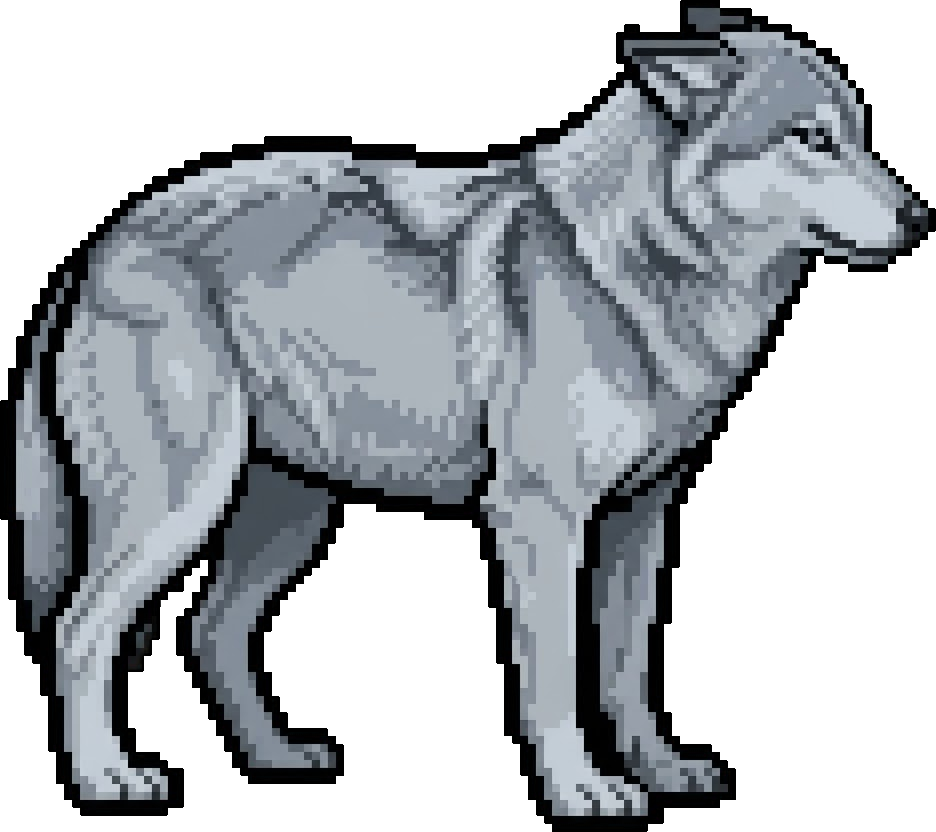
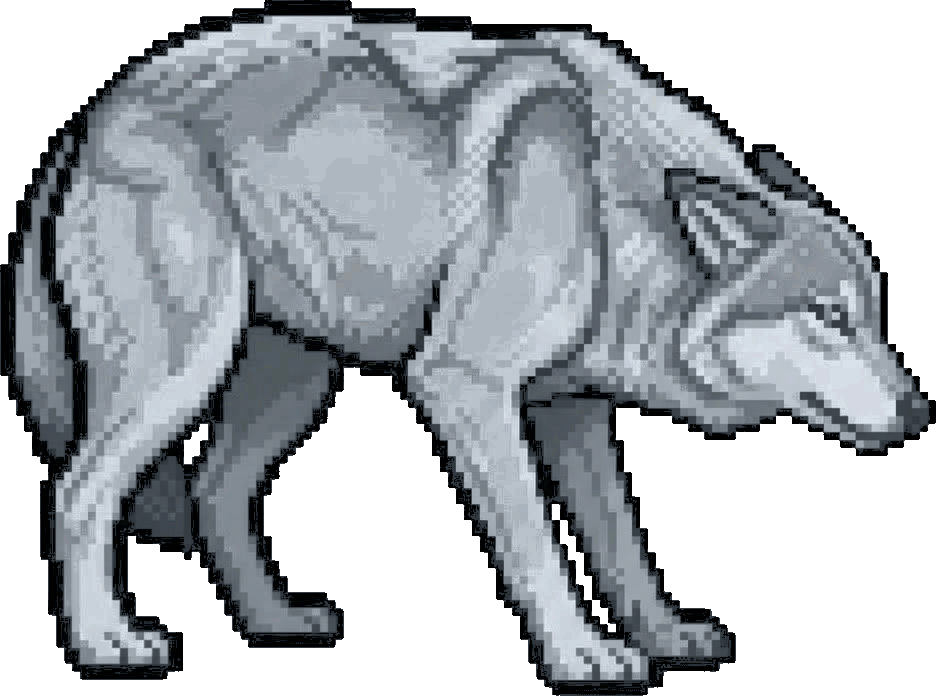
灰狼示弱換成重畫的（低頭、拱背、夾尾巴）
Claude-Session: https://claude.ai/code/session_01HkqM82v9towmCBuEomSQC3

diff --git a/prototypes/hd2d_tactical/prep_wolf.py b/prototypes/hd2d_tactical/prep_wolf.py
@@ -68,6 +68,10 @@ def main():
     # 第一輪照亮度的排名對應到第二輪走路那張的顏色（色盤對應；比整張乘倍率更接近第二輪的淺灰），肉保留原色
     for n, c in r1.items():
         cuts[n] = match_palette(c, cuts["walk"])
+    # 示弱 2026-11-08 換成重畫的（wolf_r3_submit.jpg：低頭、拱背、夾尾巴；原本那張站得太直），照第二輪走路的色盤調色
+    r3 = os.path.join(pg.SRC, "wolf_r3_submit.jpg")
+    if os.path.exists(r3):
+        cuts["submit"] = match_palette(pg.cut(r3, "green"), cuts["walk"])
     ref = cuts["walk"].width
     for n, c in cuts.items():
         c.save(os.path.join(pg.SRC, "hdwolf_%s_src.png" % n))

diff --git a/docs/progress.md b/docs/progress.md
@@ -10,7 +10,7 @@
 （2026-11-06）Gemini 的騾鹿母鹿 4 個姿勢（站、警覺抬頭、跑、低頭吃草，`arts/gemini_prey_2026-11-06/`；`prototypes/hd2d_tactical/prep_gemini_prey.py`：綠底去背、照站那張的畫布比例換算其他姿勢、站寬 1.4 格〔和白尾鹿差不多高、壯一點〕）→ `hd_mule_deer_doe*`，戰術狩獵依狀態換圖（同白尾鹿）。騾鹿公鹿 4 個姿勢（站、正面看著你〔警覺〕、跑、低頭吃草）→ `hd_mule_deer_buck*`；吃草那張 Gemini 多畫了一顆浮著的鹿頭和一叢草：浮著的頭靠「只留最大的一塊」去掉，草用 `remove_grass`（偏綠的去掉、草葉的輪廓線去掉、形態學 opening 去掉細線、小碎塊去掉、被草蓋住的短空隙補起來；縮到遊戲大小後前腳少了蹄子看不出來）。戰術狩獵的公鹿通用 `<物種>_buck`（白尾鹿、騾鹿）。騾鹿幼鹿 4 個姿勢（站、抬頭、跑、吃草，站寬 0.9 格）→ `hd_mule_deer_fawn*`（戰術物種 `mule_deer_calf`）；公鹿吃草換成重畫的乾淨版（第一版留在 `mule_deer_buck_graze_v1_grass.jpg`，`remove_grass` 留著備用）。騾鹿三種都齊了。北美馴鹿 4 個姿勢（`hd_caribou*`；站寬 1.55 格含角）：Gemini 把「正面看著你」「跑」和一副浮著的鹿角畫在同一張 → 分別裁出來（`SPECIAL` 的 crop），吃草那張面向左、1408×768、偏紅褐 → 翻轉、照站那張調色；這幾張畫的大小不同，寬度照身體長度目測指定（警覺 1.45、跑 1.9、吃草 1.95 格）。馴鹿母鹿（站、警覺、跑、低頭吃草；`hd_caribou_cow*`，站寬 1.35 格；警覺那張頭只抬高一點，之後可以重出）：鹿群的成鹿每 3 隻有 2 隻用母鹿的圖（`hd_art.caribou.mixed`，照單位序號；只有畫面）。馴鹿幼鹿 4 個姿勢（站、回頭看、跑、吃草；`hd_caribou_calf*`，站寬 0.95 格，戰術物種 `caribou_calf`）。白尾鹿雄鹿也改用 Gemini 的寫實版 4 個姿勢（`hd_deer_buck*` 同名覆蓋，站 1.4 格；站那張畫得比其他三張小，其他三張照身體長度指定；警覺是抬一隻前腳）；白尾鹿幼鹿 4 個姿勢（`hd_deer_fawn*`，0.8 格；戰術物種 fawn，取代舊的佔位圖）。白尾鹿三種都換成寫實版了。白尾鹿母鹿改用 Gemini 的寫實版 4 個姿勢（站、警覺〔尾巴翹起、抬一隻前腳〕、跑〔尾巴翹成白旗〕、吃草；`hd_deer_doe*` 同名覆蓋，逃跑改用跑那張；PixelLab 版改名 `_old_hd_deer_doe*`）。牧場的羊 4 個姿勢（美麗諾羊；`hd_sheep*`，1.3 格，和狼差不多高）。牧場母牛 4 個姿勢（德州長角牛；`hd_cattle_cow*`，2.6 格含角〔原本 1.75 格因為長角佔掉寬度，身體比狼還矮；2026-11-07 使用者發現，放大到約狼的 1.4 倍高〕；戰術物種 cattle、cattle_cow 共用；跑那張的沙土用 `CLEAN_DUST` 清掉）；站定反擊第一版 Gemini 在腳下畫了一隻趴著的小牛（連在身上切不掉，不用），重出的〔低頭用長角對著你、刨地〕接到狀態 stand；小牛 4 個姿勢（`hd_cattle_calf*`，1.45 格；站是走路回頭看那張；原本用母牛縮小會帶著長角）。大角羊母羊 4 個姿勢（`hd_bighorn_ewe*`，1.15 格；戰術物種 bighorn_sheep；跑那張腳邊的沙土連在蹄上，用 `CLEAN_DUST` 清掉）；小羊的站、警覺〔抬一隻前腳〕、跑〔騰空〕是專屬的圖（`hd_bighorn_lamb*`，0.75 格）；吃草還沒有，暫時用母羊那張縮小（毛色比小羊深）。大角羊公羊 5 個姿勢（站、警覺、跑、吃草、站定反擊〔低頭用角對著你〕；`hd_bighorn_ram*`，1.4 格含角；戰術物種 bighorn_ram）。叉角羚 4 個姿勢（站、警覺〔臀部白毛炸開〕、跑、吃草；`hd_pronghorn*`，1.45 格，比騾鹿略矮）；幼體 4 個姿勢（`hd_pronghorn_kid*`，0.85 格；灰褐色、白色花紋淡、沒有角）。美洲野牛 5 個姿勢（站、警覺、跑、吃草、站定反擊〔尾巴翹直、前蹄刨地〕；`hd_bison*`，2.65 格〔2026-11-07 從 2.0 放大到約狼的 1.6 倍高，和駝鹿同一個壓縮程度〕；站定 stand 用反擊那張）；野牛小牛 4 個姿勢（`hd_bison_calf*`，1.35 格；橘紅色「red dog」、沒有肩峰、沒有角）。草原的野兔 4 個姿勢（`hd_hare*`，0.6 格；取代暫時共用的雪兔夏毛；警覺用原本出成「跑」的那張〔耳朵往後壓、正要竄出〕；跑那張文案改了兩次都畫成半蹲，使用者附真實野兔奔跑照片當參考才畫出整個騰空）；小野兔 4 個姿勢（`hd_hare_young*`，0.42 格；跑整個騰空、一次就畫對；警覺那張和站幾乎一樣，可以重出）。旱獺 4 個姿勢（站、坐起來張望、跑、吃草；`hd_marmot*`，0.7 格含尾巴）；小旱獺 4 個姿勢（`hd_marmot_young*`，0.5 格；警覺第一次沒坐起來，文案強調「像人一樣直立、前腳不碰地」重出才對）。河狸 4 個姿勢（站、警覺、跑、啃樹枝當吃草；`hd_beaver*`，0.85 格含尾巴）；小河狸 4 個姿勢（`hd_beaver_kit*`，0.55 格；Gemini 的四張幾乎同一個姿勢，縮小後差在尾巴與前腳；`ANIMALS` 的第三個欄位可以指定用哪一種的原圖，其他幼體還在用）。馬鹿公鹿 4 個姿勢（`hd_elk_bull*`，1.85 格含角；取代風格測試的單張）。馬鹿母鹿 4 個姿勢（`hd_elk_cow*`，1.6 格；取代風格測試的單張，第一次出的有白點像幼鹿，開新對話加「成年、沒有白點」重出）。馬鹿幼鹿 4 個姿勢（`hd_elk_calf*`，1.15 格；取代原本母鹿縮小的版本）。駝鹿公鹿 站（使用者朋友出的，`hd_moose_bull`，2.1 格含角；戰術地圖的成年駝鹿先用這張；站定反擊 `hd_moose_bull_fight`〔頭壓低、鹿角朝前、背毛豎起〕接到狀態 stand；警覺〔抬一隻前腳〕、跑〔大步小跑，兩張選了腳步比較開的那張〕、吃草也補上，共 5 個姿勢）。朋友另外出的梅花鹿母鹿不用（梅花鹿原產東亞，北美只有少數引進族群、不在狼的分布區），馴鹿站留作備用（風格和現有的不同）。駝鹿母鹿 4 個姿勢（站、警覺、跑、吃草；`hd_moose_cow*`，1.95 格）：成年駝鹿每一隻開場時擲一次公或母（`hd_art.moose.mixed.random`，記在 herd 上的 `_hd_variant`，只給畫面用；駝鹿多半單獨出現，照序號會永遠同一種）；母鹿站定反擊 `hd_moose_cow_fight`〔耳朵往後、背毛豎起、前蹄抬起〕接到狀態 stand。黑熊走路的另一步（ChatGPT，`black_bear_walk_b`，照走路那張的比例與顏色對齊）接進戰鬥畫面，移動時兩步輪流（原本和站輪流）。駝鹿幼鹿 4 個姿勢（站、警覺、跑、吃草；`hd_moose_calf*`，1.2 格）。出圖流程（2026-11-07 使用者回饋）：先由 Claude Code 寫好外觀與姿勢的描述，使用者把標題和描述一起轉給 Gemini、一次一張，準確很多。
 （2026-11-06）PixelLab 出圖（使用者試用，`arts/pixellab_2026-11-06/`，每張 2×2 四個版本；`prototypes/hd2d_tactical/prep_pixellab.py`）：灰狼走路的另一步取左上（寬高比最接近第二輪的走路，照高度對齊）→ `hdwolf_walk_b`，移動時和走路輪流（原本和站輪流）；馬鹿殘骸左上 → `hd_carcass_elk`（1.6 格）、右下縮小 → `hd_carcass_deer`（1.2 格，白尾鹿、騾鹿共用），`combat_hd2d.json` 的 `carcass.hd`。白尾鹿：雄鹿（4 個版本取右上）、母鹿 4 個姿勢（站、走、低頭吃草、警覺回頭）→ `hd_deer_*`；PixelLab 畫得腿長脖子高、顏色鮮豔，縮成 1.1／1.2 格（約馬鹿的 0.85 高）、飽和度 × 0.8。戰術狩獵依每隻鹿的狀態換圖（`hunt_hd2d.json` 的 `hd_art` 加 unaware／suspicious／stand／flee）：沒發現你低頭吃草、警覺或站定抬頭回看、逃跑走路；主遊戲的白尾鹿雄鹿用雄鹿的圖（`ctx.life_stage` → `game_mods.life_stage`，只給畫面用）。
 （2026-11-06）戰術狩獵的獵物補上 HD-2D 圖（使用者：沒有出圖額度，看舊素材能不能補）：沿用 2026-10-13 風格測試留下的高解析度原圖（`prototypes/hd2d_tactical/prep_prey.py` → `assets/hd_*`）：馬鹿母鹿、公鹿（`art_scene_test` 的像素風）、小馬鹿（母鹿縮小到 1.1 格）、雪兔夏毛、冬毛與幼兔（`art_illustrated_test` 的插畫風；野兔暫時共用夏毛）。`hunt_hd2d.json` 的 `hd_art`（物種鍵 → 圖名、冬季的圖），`HuntHD2D._art_for` 有就用。其他獵物（白尾鹿、騾鹿、馴鹿、野牛……）和殘骸沒有可用的舊原圖，照舊用佔位圖。
-（2026-11-06）灰狼的 Gemini 圖接進戰鬥與戰術狩獵畫面（使用者提供兩輪共 12 張，`arts/hd2d_2026-11-06/wolf_r1_*`、`wolf_r2_*`；`prototypes/hd2d_tactical/prep_wolf.py` → `assets/hdwolf_*`）：第二輪（淺灰、黑框粗）當基準：走路、示弱（耳朵壓平、尾巴下垂；使用者說明第 2 張是示弱）、倒地、示威、潛行、撤退（尾巴夾住）、帶傷、準備撲；第一輪補站、撲咬、叼肉（2026-11-06 改成照亮度的排名對應到第二輪走路那張的顏色、肉保留原色；原本整張乘倍率會偏褐藍、肉偏粉）。縮小後補 1 像素深色外框（原圖細黑框縮小會不見），走路寬 1.35 格。`combat_hd2d.json` 的 `wolf_poses`、`CombatHD2D._wolf_pose`：叼肉 carry、上一回合咬或壓制 lunge、示威 threaten、對手預告咬或壓制 ready、過了重傷線 hurt、潛行 stalk、移動 walk／stand 輪流；退出的狼留在原地一回合（示弱 submit、被打倒 down、撤退或逃走 retreat；熊、美洲獅走了照舊不畫）。你、伴侶、同伴、對手的狼都用同一套、各自調顏色。戰術狩獵的狼也換成新的站姿。原本的 `wolf_stand` 等留給 HD-2D 測試場景。
+（2026-11-06）灰狼的 Gemini 圖接進戰鬥與戰術狩獵畫面（使用者提供兩輪共 12 張，`arts/hd2d_2026-11-06/wolf_r1_*`、`wolf_r2_*`；`prototypes/hd2d_tactical/prep_wolf.py` → `assets/hdwolf_*`）：第二輪（淺灰、黑框粗）當基準：走路、示弱（耳朵壓平、尾巴下垂；使用者說明第 2 張是示弱）、倒地、示威、潛行、撤退（尾巴夾住）、帶傷、準備撲；示弱 2026-11-08 換成重畫的 `wolf_r3_submit.jpg`（低頭、拱背、夾尾巴，色盤對應到第二輪）；第一輪補站、撲咬、叼肉（2026-11-06 改成照亮度的排名對應到第二輪走路那張的顏色、肉保留原色；原本整張乘倍率會偏褐藍、肉偏粉）。縮小後補 1 像素深色外框（原圖細黑框縮小會不見），走路寬 1.35 格。`combat_hd2d.json` 的 `wolf_poses`、`CombatHD2D._wolf_pose`：叼肉 carry、上一回合咬或壓制 lunge、示威 threaten、對手預告咬或壓制 ready、過了重傷線 hurt、潛行 stalk、移動 walk／stand 輪流；退出的狼留在原地一回合（示弱 submit、被打倒 down、撤退或逃走 retreat；熊、美洲獅走了照舊不畫）。你、伴侶、同伴、對手的狼都用同一套、各自調顏色。戰術狩獵的狼也換成新的站姿。原本的 `wolf_stand` 等留給 HD-2D 測試場景。
 （2026-11-06）黑熊的 Gemini 圖接進戰鬥畫面（使用者提供 4 張綠底圖，`arts/hd2d_2026-11-06/black_bear_*`；`prototypes/hd2d_tactical/prep_black_bear.py`）：三隻一張的圖當基準（站 1.9 格、走路 2.06、揮掌 2.55，同一張圖同一個比例），衝刺 2.3、低頭吃 2.0（嘴前的莓果去掉），六隻那張只取用後腳站起來那隻（1.22 格；偏藍，顏色倍率調到和基準一樣）；多隻排在一起的圖先找出每一隻的範圍再切。姿勢：在吃 eat、揮掌或咬 swipe、預告看起來是衝撞（含假衝）charge、守食物 rear、移動 walk／stand 輪流（只有一張走路）。`CombatHD2D` 加 charge、rear 兩種姿勢（只有有那張圖的動物用）。
 （2026-11-06）Phase 2k 戰術戰鬥接進主遊戲寫入 SPEC（使用者同意）。CLAUDE.md 任務順序加第 19 項。
 - [x] Phase 2k 戰術戰鬥接進主遊戲（實作完成，待試玩）

diff --git a/docs/art-request-hd2d-2026-11-06.md b/docs/art-request-hd2d-2026-11-06.md
@@ -45,7 +45,6 @@
 | 名稱 | 要什麼 | 為什麼 |
 | --- | --- | --- |
 | 灰狼 站、撲咬、叼著肉 | 照第二輪（淺灰、粗框；參考 `wolf_r2_walk.jpg`）重畫 | 現在是第一輪調色，筆觸不同；不急 |
-| 灰狼 示弱 | 身體貼地、耳朵往後壓、尾巴夾住，半趴 | 現在站得直，不太像認輸 |
 | 殘骸 駝鹿、野牛 | 躺著、被吃了一部分 | 現在用鹿的殘骸代替 |
 | 黑狼、苔原狼 | 各自的站、走、咬、示弱 | 現在是灰狼調色 |
 
